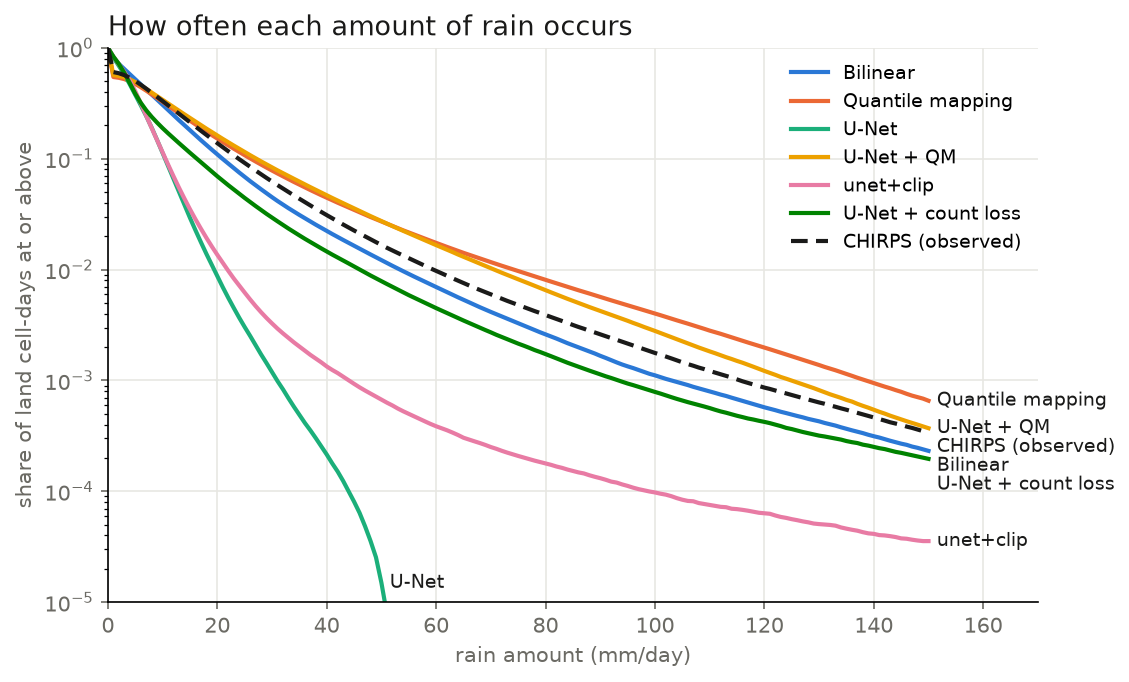
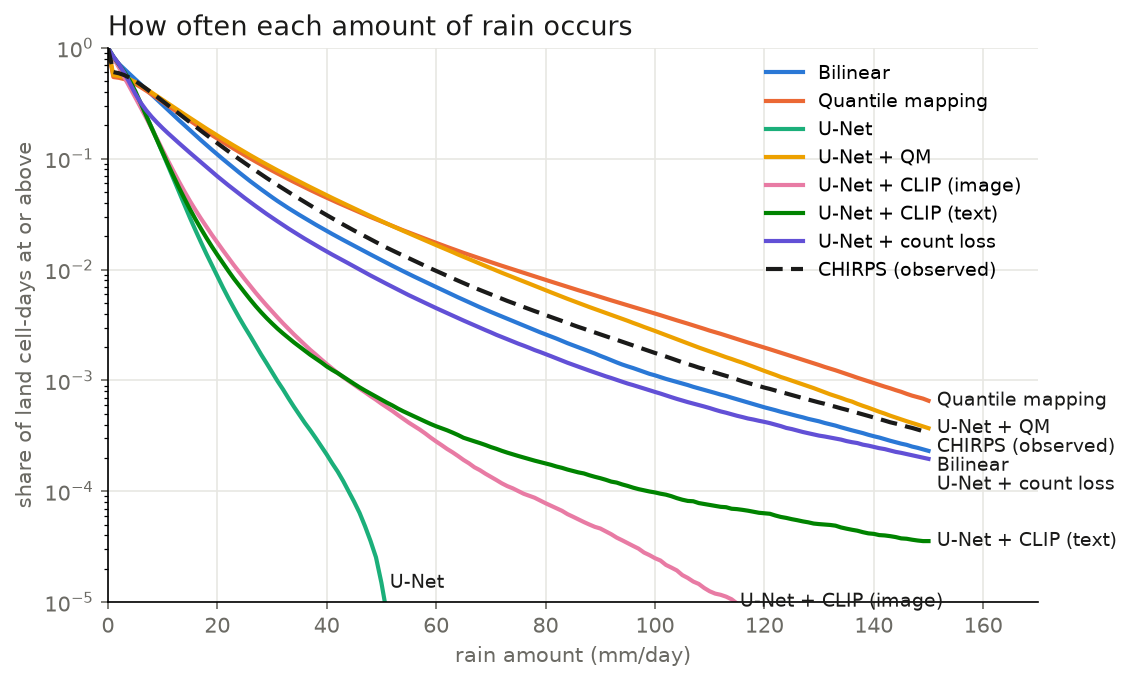
Add image-only CLIP U-Net validation results

diff --git a/src/rainfall_downscaling_baseline/evaluation/plots.py b/src/rainfall_downscaling_baseline/evaluation/plots.py
@@ -23,6 +23,8 @@ MODEL_COLOURS = [
     "#eda100",
     "#e87ba4",
     "#008300",
+    "#6250d6",
+    "#e34948",
 ]  # fixed order, never cycled
 INK, MUTED = "#1a1a19", "#6b6a64"
 LABELS = {
@@ -31,6 +33,8 @@ LABELS = {
     "unet": "U-Net",
     "unet+qm": "U-Net + QM",
     "unet+count": "U-Net + count loss",
+    "unet+clip": "U-Net + CLIP (text)",
+    "unet+clip-image": "U-Net + CLIP (image)",
 }
 FLOOR = 1e-5  # bottom of the log axis in exceedance()
 
